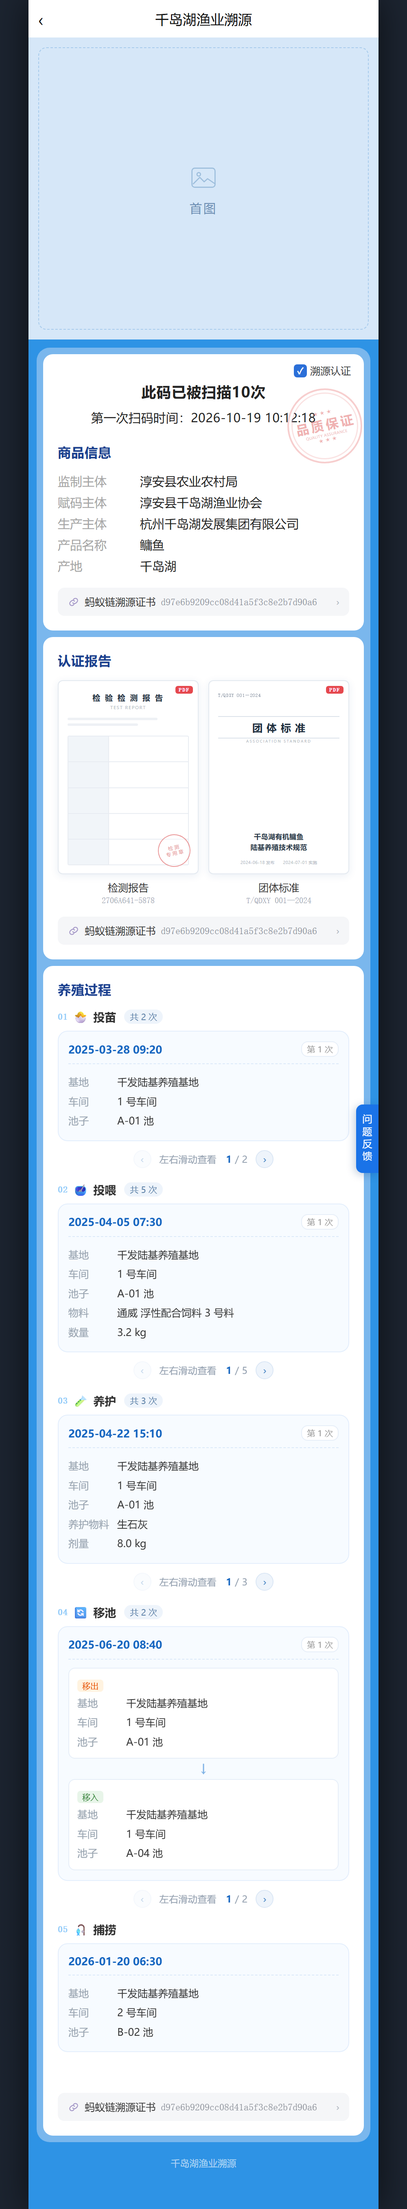
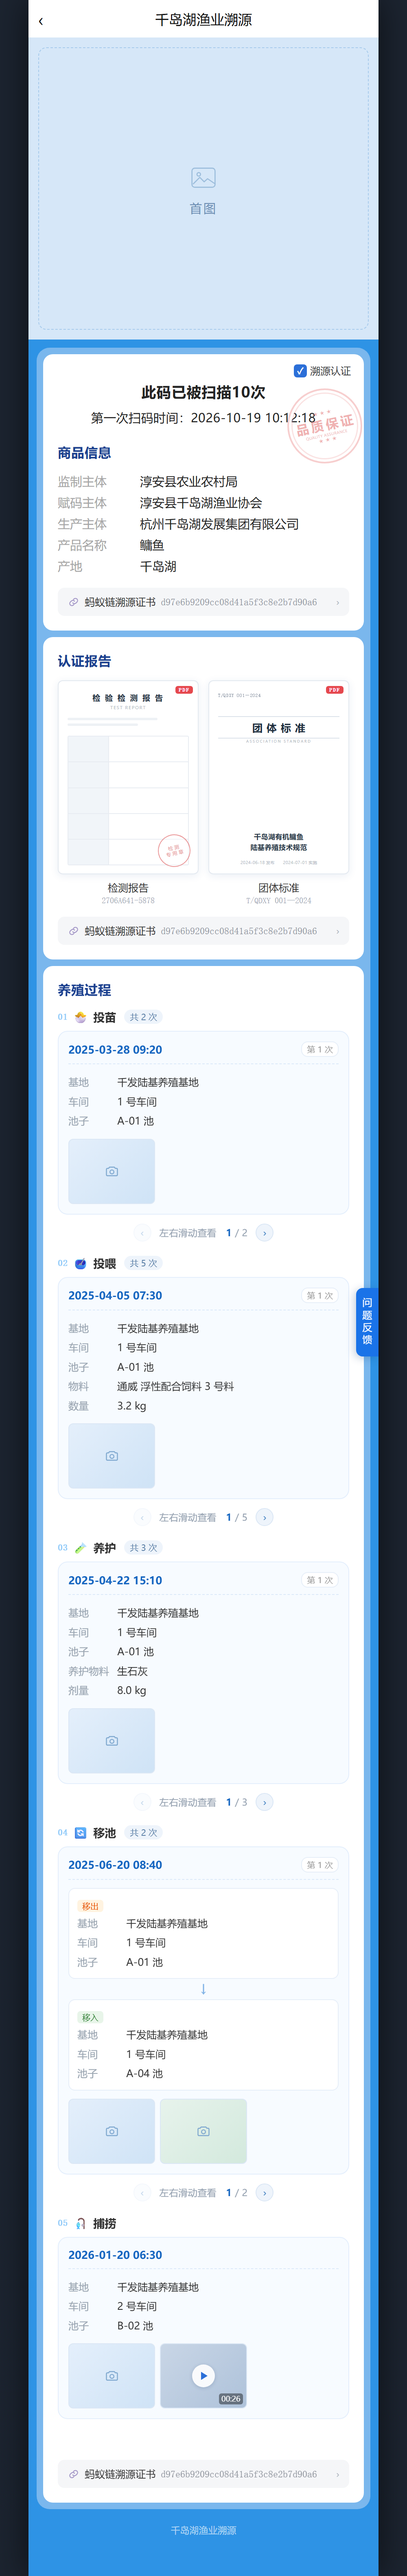
update: 溯源页新增影像缩略图模块

diff --git a/index.html b/index.html
@@ -398,6 +398,61 @@
     .pc-row .k { color: #9aa5b1; width: 60px; flex-shrink: 0; }
     .pc-row .v { color: #333; flex: 1; }
 
+    /* 记录图片 / 视频缩略图 */
+    .media {
+      display: grid;
+      grid-template-columns: repeat(3, 1fr);
+      gap: 6px;
+      margin-top: 10px;
+    }
+    .thumb {
+      position: relative;
+      aspect-ratio: 4 / 3;
+      border-radius: 6px;
+      overflow: hidden;
+      border: 1px solid #dbe7f5;
+      background: linear-gradient(135deg, #e4effb, #cfe3f6);
+      display: flex;
+      align-items: center;
+      justify-content: center;
+      cursor: pointer;
+    }
+    .thumb:nth-child(3n+2) { background: linear-gradient(135deg, #e7f3ec, #d3e9dd); }
+    .thumb:nth-child(3n+3) { background: linear-gradient(135deg, #eef0f8, #dee3f1); }
+    .thumb:active { opacity: .85; }
+    .thumb.is-video { background: linear-gradient(135deg, #c9d6e6, #aec2da); }
+    .play {
+      width: 28px;
+      height: 28px;
+      border-radius: 50%;
+      background: rgba(255,255,255,.9);
+      display: flex;
+      align-items: center;
+      justify-content: center;
+      box-shadow: 0 1px 5px rgba(20,50,90,.18);
+    }
+    .play::after {
+      content: '';
+      width: 0;
+      height: 0;
+      border-left: 8px solid #2b6fd8;
+      border-top: 5px solid transparent;
+      border-bottom: 5px solid transparent;
+      margin-left: 2px;
+    }
+    .dur {
+      position: absolute;
+      right: 4px;
+      bottom: 4px;
+      font-size: 9px;
+      line-height: 1.5;
+      color: #fff;
+      background: rgba(0,0,0,.42);
+      padding: 0 3px;
+      border-radius: 3px;
+      font-variant-numeric: tabular-nums;
+    }
+
     /* 移池 */
     .move-box {
       background: #fff;
@@ -449,6 +504,49 @@
     .sh-label { font-size: 11.5px; color: #97a3b2; letter-spacing: .2px; }
     .sh-index { color: #1565c0; font-weight: 600; }
     .sh-total { color: #97a3b2; }
+
+
+    /* 大图 / 视频预览 */
+    .viewer {
+      position: fixed;
+      inset: 0;
+      background: rgba(8,14,22,.94);
+      display: none;
+      align-items: center;
+      justify-content: center;
+      z-index: 300;
+    }
+    .viewer.on { display: flex; }
+    .viewer .vbox {
+      width: 86%;
+      aspect-ratio: 4 / 3;
+      border-radius: 10px;
+      background: linear-gradient(135deg, #dfeaf7, #c9dcef);
+      display: flex;
+      align-items: center;
+      justify-content: center;
+      overflow: hidden;
+    }
+    .viewer .vbox.video { background: #10161f; }
+    .viewer .vclose {
+      position: absolute;
+      top: 16px;
+      right: 18px;
+      color: #fff;
+      font-size: 26px;
+      line-height: 1;
+      opacity: .8;
+      cursor: pointer;
+    }
+    .viewer .vcap {
+      position: absolute;
+      left: 0;
+      right: 0;
+      bottom: 34px;
+      text-align: center;
+      color: rgba(255,255,255,.75);
+      font-size: 12px;
+    }
 
     /* 底部 */
     .footer {
@@ -602,6 +700,9 @@
               <div class="pc-row"><span class="k">基地</span><span class="v">千发陆基养殖基地</span></div>
               <div class="pc-row"><span class="k">车间</span><span class="v">1 号车间</span></div>
               <div class="pc-row"><span class="k">池子</span><span class="v">A-01 池</span></div>
+              <div class="media">
+                <div class="thumb" data-type="img"><svg viewBox="0 0 24 24" width="18" height="18" fill="none" stroke="#7fa8cf" stroke-width="1.6" stroke-linecap="round" stroke-linejoin="round"><path d="M3 8.6A1.6 1.6 0 0 1 4.6 7h1.9L8 5h8l1.5 2h1.9A1.6 1.6 0 0 1 21 8.6v8.8A1.6 1.6 0 0 1 19.4 19H4.6A1.6 1.6 0 0 1 3 17.4z"/><circle cx="12" cy="12.8" r="3.2"/></svg></div>
+              </div>
             </div>
             <div class="proc-card">
               <div class="pc-top">
@@ -611,6 +712,9 @@
               <div class="pc-row"><span class="k">基地</span><span class="v">千发陆基养殖基地</span></div>
               <div class="pc-row"><span class="k">车间</span><span class="v">1 号车间</span></div>
               <div class="pc-row"><span class="k">池子</span><span class="v">A-01 池</span></div>
+              <div class="media">
+                <div class="thumb" data-type="img"><svg viewBox="0 0 24 24" width="18" height="18" fill="none" stroke="#7fa8cf" stroke-width="1.6" stroke-linecap="round" stroke-linejoin="round"><path d="M3 8.6A1.6 1.6 0 0 1 4.6 7h1.9L8 5h8l1.5 2h1.9A1.6 1.6 0 0 1 21 8.6v8.8A1.6 1.6 0 0 1 19.4 19H4.6A1.6 1.6 0 0 1 3 17.4z"/><circle cx="12" cy="12.8" r="3.2"/></svg></div>
+              </div>
             </div>
           </div>
           <div class="swipe-hint">
@@ -639,6 +743,9 @@
               <div class="pc-row"><span class="k">池子</span><span class="v">A-01 池</span></div>
               <div class="pc-row"><span class="k">物料</span><span class="v">通威 浮性配合饲料 3 号料</span></div>
               <div class="pc-row"><span class="k">数量</span><span class="v">3.2 kg</span></div>
+              <div class="media">
+                <div class="thumb" data-type="img"><svg viewBox="0 0 24 24" width="18" height="18" fill="none" stroke="#7fa8cf" stroke-width="1.6" stroke-linecap="round" stroke-linejoin="round"><path d="M3 8.6A1.6 1.6 0 0 1 4.6 7h1.9L8 5h8l1.5 2h1.9A1.6 1.6 0 0 1 21 8.6v8.8A1.6 1.6 0 0 1 19.4 19H4.6A1.6 1.6 0 0 1 3 17.4z"/><circle cx="12" cy="12.8" r="3.2"/></svg></div>
+              </div>
             </div>
             <div class="proc-card">
               <div class="pc-top">
@@ -650,6 +757,10 @@
               <div class="pc-row"><span class="k">池子</span><span class="v">A-01 池</span></div>
               <div class="pc-row"><span class="k">物料</span><span class="v">通威 浮性配合饲料 3 号料</span></div>
               <div class="pc-row"><span class="k">数量</span><span class="v">4.5 kg</span></div>
+              <div class="media">
+                <div class="thumb" data-type="img"><svg viewBox="0 0 24 24" width="18" height="18" fill="none" stroke="#7fa8cf" stroke-width="1.6" stroke-linecap="round" stroke-linejoin="round"><path d="M3 8.6A1.6 1.6 0 0 1 4.6 7h1.9L8 5h8l1.5 2h1.9A1.6 1.6 0 0 1 21 8.6v8.8A1.6 1.6 0 0 1 19.4 19H4.6A1.6 1.6 0 0 1 3 17.4z"/><circle cx="12" cy="12.8" r="3.2"/></svg></div>
+                <div class="thumb" data-type="img"><svg viewBox="0 0 24 24" width="18" height="18" fill="none" stroke="#7fa8cf" stroke-width="1.6" stroke-linecap="round" stroke-linejoin="round"><path d="M3 8.6A1.6 1.6 0 0 1 4.6 7h1.9L8 5h8l1.5 2h1.9A1.6 1.6 0 0 1 21 8.6v8.8A1.6 1.6 0 0 1 19.4 19H4.6A1.6 1.6 0 0 1 3 17.4z"/><circle cx="12" cy="12.8" r="3.2"/></svg></div>
+              </div>
             </div>
             <div class="proc-card">
               <div class="pc-top">
@@ -661,6 +772,11 @@
               <div class="pc-row"><span class="k">池子</span><span class="v">A-04 池</span></div>
               <div class="pc-row"><span class="k">物料</span><span class="v">通威 浮性配合饲料 4 号料</span></div>
               <div class="pc-row"><span class="k">数量</span><span class="v">6.0 kg</span></div>
+              <div class="media">
+                <div class="thumb" data-type="img"><svg viewBox="0 0 24 24" width="18" height="18" fill="none" stroke="#7fa8cf" stroke-width="1.6" stroke-linecap="round" stroke-linejoin="round"><path d="M3 8.6A1.6 1.6 0 0 1 4.6 7h1.9L8 5h8l1.5 2h1.9A1.6 1.6 0 0 1 21 8.6v8.8A1.6 1.6 0 0 1 19.4 19H4.6A1.6 1.6 0 0 1 3 17.4z"/><circle cx="12" cy="12.8" r="3.2"/></svg></div>
+                <div class="thumb" data-type="img"><svg viewBox="0 0 24 24" width="18" height="18" fill="none" stroke="#7fa8cf" stroke-width="1.6" stroke-linecap="round" stroke-linejoin="round"><path d="M3 8.6A1.6 1.6 0 0 1 4.6 7h1.9L8 5h8l1.5 2h1.9A1.6 1.6 0 0 1 21 8.6v8.8A1.6 1.6 0 0 1 19.4 19H4.6A1.6 1.6 0 0 1 3 17.4z"/><circle cx="12" cy="12.8" r="3.2"/></svg></div>
+                <div class="thumb" data-type="img"><svg viewBox="0 0 24 24" width="18" height="18" fill="none" stroke="#7fa8cf" stroke-width="1.6" stroke-linecap="round" stroke-linejoin="round"><path d="M3 8.6A1.6 1.6 0 0 1 4.6 7h1.9L8 5h8l1.5 2h1.9A1.6 1.6 0 0 1 21 8.6v8.8A1.6 1.6 0 0 1 19.4 19H4.6A1.6 1.6 0 0 1 3 17.4z"/><circle cx="12" cy="12.8" r="3.2"/></svg></div>
+              </div>
             </div>
             <div class="proc-card">
               <div class="pc-top">
@@ -672,6 +788,14 @@
               <div class="pc-row"><span class="k">池子</span><span class="v">B-02 池</span></div>
               <div class="pc-row"><span class="k">物料</span><span class="v">通威 浮性配合饲料 4 号料</span></div>
               <div class="pc-row"><span class="k">数量</span><span class="v">7.8 kg</span></div>
+              <div class="media">
+                <div class="thumb" data-type="img"><svg viewBox="0 0 24 24" width="18" height="18" fill="none" stroke="#7fa8cf" stroke-width="1.6" stroke-linecap="round" stroke-linejoin="round"><path d="M3 8.6A1.6 1.6 0 0 1 4.6 7h1.9L8 5h8l1.5 2h1.9A1.6 1.6 0 0 1 21 8.6v8.8A1.6 1.6 0 0 1 19.4 19H4.6A1.6 1.6 0 0 1 3 17.4z"/><circle cx="12" cy="12.8" r="3.2"/></svg></div>
+                <div class="thumb" data-type="img"><svg viewBox="0 0 24 24" width="18" height="18" fill="none" stroke="#7fa8cf" stroke-width="1.6" stroke-linecap="round" stroke-linejoin="round"><path d="M3 8.6A1.6 1.6 0 0 1 4.6 7h1.9L8 5h8l1.5 2h1.9A1.6 1.6 0 0 1 21 8.6v8.8A1.6 1.6 0 0 1 19.4 19H4.6A1.6 1.6 0 0 1 3 17.4z"/><circle cx="12" cy="12.8" r="3.2"/></svg></div>
+                <div class="thumb is-video" data-type="video">
+                  <span class="play"></span>
+                  <span class="dur">00:18</span>
+                </div>
+              </div>
             </div>
             <div class="proc-card">
               <div class="pc-top">
@@ -683,6 +807,9 @@
               <div class="pc-row"><span class="k">池子</span><span class="v">B-02 池</span></div>
               <div class="pc-row"><span class="k">物料</span><span class="v">通威 浮性配合饲料 5 号料</span></div>
               <div class="pc-row"><span class="k">数量</span><span class="v">9.0 kg</span></div>
+              <div class="media">
+                <div class="thumb" data-type="img"><svg viewBox="0 0 24 24" width="18" height="18" fill="none" stroke="#7fa8cf" stroke-width="1.6" stroke-linecap="round" stroke-linejoin="round"><path d="M3 8.6A1.6 1.6 0 0 1 4.6 7h1.9L8 5h8l1.5 2h1.9A1.6 1.6 0 0 1 21 8.6v8.8A1.6 1.6 0 0 1 19.4 19H4.6A1.6 1.6 0 0 1 3 17.4z"/><circle cx="12" cy="12.8" r="3.2"/></svg></div>
+              </div>
             </div>
           </div>
           <div class="swipe-hint">
@@ -711,6 +838,9 @@
               <div class="pc-row"><span class="k">池子</span><span class="v">A-01 池</span></div>
               <div class="pc-row"><span class="k">养护物料</span><span class="v">生石灰</span></div>
               <div class="pc-row"><span class="k">剂量</span><span class="v">8.0 kg</span></div>
+              <div class="media">
+                <div class="thumb" data-type="img"><svg viewBox="0 0 24 24" width="18" height="18" fill="none" stroke="#7fa8cf" stroke-width="1.6" stroke-linecap="round" stroke-linejoin="round"><path d="M3 8.6A1.6 1.6 0 0 1 4.6 7h1.9L8 5h8l1.5 2h1.9A1.6 1.6 0 0 1 21 8.6v8.8A1.6 1.6 0 0 1 19.4 19H4.6A1.6 1.6 0 0 1 3 17.4z"/><circle cx="12" cy="12.8" r="3.2"/></svg></div>
+              </div>
             </div>
             <div class="proc-card">
               <div class="pc-top">
@@ -722,6 +852,10 @@
               <div class="pc-row"><span class="k">池子</span><span class="v">A-04 池</span></div>
               <div class="pc-row"><span class="k">养护物料</span><span class="v">二氧化氯消毒剂</span></div>
               <div class="pc-row"><span class="k">剂量</span><span class="v">0.35 kg</span></div>
+              <div class="media">
+                <div class="thumb" data-type="img"><svg viewBox="0 0 24 24" width="18" height="18" fill="none" stroke="#7fa8cf" stroke-width="1.6" stroke-linecap="round" stroke-linejoin="round"><path d="M3 8.6A1.6 1.6 0 0 1 4.6 7h1.9L8 5h8l1.5 2h1.9A1.6 1.6 0 0 1 21 8.6v8.8A1.6 1.6 0 0 1 19.4 19H4.6A1.6 1.6 0 0 1 3 17.4z"/><circle cx="12" cy="12.8" r="3.2"/></svg></div>
+                <div class="thumb" data-type="img"><svg viewBox="0 0 24 24" width="18" height="18" fill="none" stroke="#7fa8cf" stroke-width="1.6" stroke-linecap="round" stroke-linejoin="round"><path d="M3 8.6A1.6 1.6 0 0 1 4.6 7h1.9L8 5h8l1.5 2h1.9A1.6 1.6 0 0 1 21 8.6v8.8A1.6 1.6 0 0 1 19.4 19H4.6A1.6 1.6 0 0 1 3 17.4z"/><circle cx="12" cy="12.8" r="3.2"/></svg></div>
+              </div>
             </div>
             <div class="proc-card">
               <div class="pc-top">
@@ -733,6 +867,9 @@
               <div class="pc-row"><span class="k">池子</span><span class="v">B-02 池</span></div>
               <div class="pc-row"><span class="k">养护物料</span><span class="v">复合芽孢杆菌</span></div>
               <div class="pc-row"><span class="k">剂量</span><span class="v">1.2 kg</span></div>
+              <div class="media">
+                <div class="thumb" data-type="img"><svg viewBox="0 0 24 24" width="18" height="18" fill="none" stroke="#7fa8cf" stroke-width="1.6" stroke-linecap="round" stroke-linejoin="round"><path d="M3 8.6A1.6 1.6 0 0 1 4.6 7h1.9L8 5h8l1.5 2h1.9A1.6 1.6 0 0 1 21 8.6v8.8A1.6 1.6 0 0 1 19.4 19H4.6A1.6 1.6 0 0 1 3 17.4z"/><circle cx="12" cy="12.8" r="3.2"/></svg></div>
+              </div>
             </div>
           </div>
           <div class="swipe-hint">
@@ -769,6 +906,10 @@
                 <div class="pc-row"><span class="k">车间</span><span class="v">1 号车间</span></div>
                 <div class="pc-row"><span class="k">池子</span><span class="v">A-04 池</span></div>
               </div>
+              <div class="media">
+                <div class="thumb" data-type="img"><svg viewBox="0 0 24 24" width="18" height="18" fill="none" stroke="#7fa8cf" stroke-width="1.6" stroke-linecap="round" stroke-linejoin="round"><path d="M3 8.6A1.6 1.6 0 0 1 4.6 7h1.9L8 5h8l1.5 2h1.9A1.6 1.6 0 0 1 21 8.6v8.8A1.6 1.6 0 0 1 19.4 19H4.6A1.6 1.6 0 0 1 3 17.4z"/><circle cx="12" cy="12.8" r="3.2"/></svg></div>
+                <div class="thumb" data-type="img"><svg viewBox="0 0 24 24" width="18" height="18" fill="none" stroke="#7fa8cf" stroke-width="1.6" stroke-linecap="round" stroke-linejoin="round"><path d="M3 8.6A1.6 1.6 0 0 1 4.6 7h1.9L8 5h8l1.5 2h1.9A1.6 1.6 0 0 1 21 8.6v8.8A1.6 1.6 0 0 1 19.4 19H4.6A1.6 1.6 0 0 1 3 17.4z"/><circle cx="12" cy="12.8" r="3.2"/></svg></div>
+              </div>
             </div>
             <div class="proc-card">
               <div class="pc-top">
@@ -787,6 +928,11 @@
                 <div class="pc-row"><span class="k">基地</span><span class="v">千发陆基养殖基地</span></div>
                 <div class="pc-row"><span class="k">车间</span><span class="v">2 号车间</span></div>
                 <div class="pc-row"><span class="k">池子</span><span class="v">B-02 池</span></div>
+              </div>
+              <div class="media">
+                <div class="thumb" data-type="img"><svg viewBox="0 0 24 24" width="18" height="18" fill="none" stroke="#7fa8cf" stroke-width="1.6" stroke-linecap="round" stroke-linejoin="round"><path d="M3 8.6A1.6 1.6 0 0 1 4.6 7h1.9L8 5h8l1.5 2h1.9A1.6 1.6 0 0 1 21 8.6v8.8A1.6 1.6 0 0 1 19.4 19H4.6A1.6 1.6 0 0 1 3 17.4z"/><circle cx="12" cy="12.8" r="3.2"/></svg></div>
+                <div class="thumb" data-type="img"><svg viewBox="0 0 24 24" width="18" height="18" fill="none" stroke="#7fa8cf" stroke-width="1.6" stroke-linecap="round" stroke-linejoin="round"><path d="M3 8.6A1.6 1.6 0 0 1 4.6 7h1.9L8 5h8l1.5 2h1.9A1.6 1.6 0 0 1 21 8.6v8.8A1.6 1.6 0 0 1 19.4 19H4.6A1.6 1.6 0 0 1 3 17.4z"/><circle cx="12" cy="12.8" r="3.2"/></svg></div>
+                <div class="thumb" data-type="img"><svg viewBox="0 0 24 24" width="18" height="18" fill="none" stroke="#7fa8cf" stroke-width="1.6" stroke-linecap="round" stroke-linejoin="round"><path d="M3 8.6A1.6 1.6 0 0 1 4.6 7h1.9L8 5h8l1.5 2h1.9A1.6 1.6 0 0 1 21 8.6v8.8A1.6 1.6 0 0 1 19.4 19H4.6A1.6 1.6 0 0 1 3 17.4z"/><circle cx="12" cy="12.8" r="3.2"/></svg></div>
               </div>
             </div>
           </div>
@@ -814,6 +960,13 @@
               <div class="pc-row"><span class="k">基地</span><span class="v">千发陆基养殖基地</span></div>
               <div class="pc-row"><span class="k">车间</span><span class="v">2 号车间</span></div>
               <div class="pc-row"><span class="k">池子</span><span class="v">B-02 池</span></div>
+              <div class="media">
+                <div class="thumb" data-type="img"><svg viewBox="0 0 24 24" width="18" height="18" fill="none" stroke="#7fa8cf" stroke-width="1.6" stroke-linecap="round" stroke-linejoin="round"><path d="M3 8.6A1.6 1.6 0 0 1 4.6 7h1.9L8 5h8l1.5 2h1.9A1.6 1.6 0 0 1 21 8.6v8.8A1.6 1.6 0 0 1 19.4 19H4.6A1.6 1.6 0 0 1 3 17.4z"/><circle cx="12" cy="12.8" r="3.2"/></svg></div>
+                <div class="thumb is-video" data-type="video">
+                  <span class="play"></span>
+                  <span class="dur">00:26</span>
+                </div>
+              </div>
             </div>
           </div>
           <div class="swipe-hint">
@@ -836,6 +989,13 @@
     </div>
 
     <div class="footer">千岛湖渔业溯源</div>
+  </div>
+
+
+  <div class="viewer" id="viewer" onclick="closeViewer()">
+    <span class="vclose">×</span>
+    <div class="vbox" id="vbox"></div>
+    <div class="vcap" id="vcap"></div>
   </div>
 
   <div class="side-tab" onclick="showFeedback()">问题反馈</div>
@@ -921,6 +1081,38 @@
         if (moved) { e.preventDefault(); e.stopPropagation(); }
       }, true);
     });
+
+    /* 记录图片 / 视频：点击看大图、播放 */
+    var viewer = document.getElementById('viewer');
+    var vbox = document.getElementById('vbox');
+    var vcap = document.getElementById('vcap');
+
+    document.querySelectorAll('.thumb').forEach(function (th) {
+      th.addEventListener('click', function (e) {
+        e.stopPropagation();
+        var card = th.closest('.proc-card');
+        var time = card.querySelector('.pc-time').textContent;
+        var step = card.closest('.step').querySelector('.step-name').textContent;
+        var isVideo = th.getAttribute('data-type') === 'video';
+
+        vbox.className = 'vbox' + (isVideo ? ' video' : '');
+        if (isVideo) {
+          vbox.innerHTML = '<div style="width:54px;height:54px;border-radius:50%;background:rgba(255,255,255,.9);' +
+            'display:flex;align-items:center;justify-content:center;box-shadow:0 2px 10px rgba(0,0,0,.4)">' +
+            '<span style="width:0;height:0;border-left:16px solid #2b6fd8;border-top:10px solid transparent;' +
+            'border-bottom:10px solid transparent;margin-left:4px"></span></div>';
+          vcap.textContent = step + ' · ' + time + ' · 视频';
+        } else {
+          vbox.innerHTML = '';
+          vcap.textContent = step + ' · ' + time + ' · 现场图片';
+        }
+        viewer.classList.add('on');
+      });
+    });
+
+    function closeViewer() {
+      viewer.classList.remove('on');
+    }
 
     function showCert(name) {
       alert(name + ' 在线预览功能开发中');
